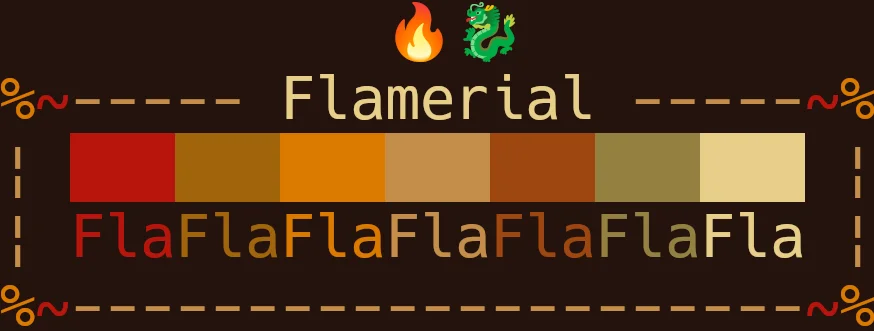
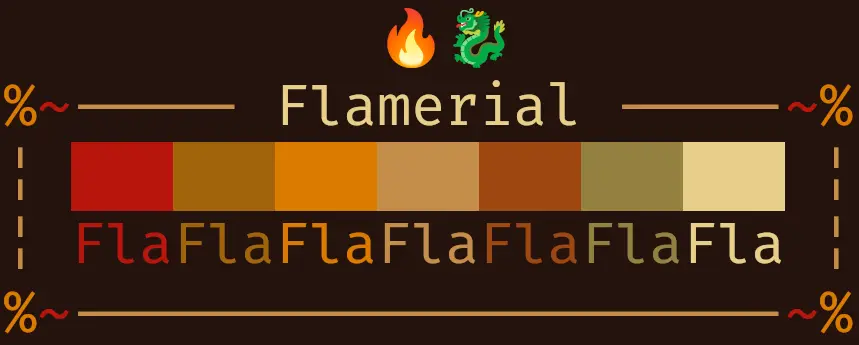
update formatting

diff --git a/tools/preview.js b/tools/preview.js
@@ -1,0 +1,9 @@
+console.log('           🔥🐉');
+console.log('\x1b[33m%\x1b[31m~\x1b[34m----- \x1b[0mFlamerial \x1b[34m-----' +
+            '\x1b[31m~\x1b[33m%');
+console.log('\x1b[34m¦ \x1b[41m   \x1b[42m   \x1b[43m   \x1b[44m   ' +
+            '\x1b[45m   \x1b[46m   \x1b[47m   \x1b[49m ¦');
+console.log('¦ \x1b[31mFla\x1b[32mFla\x1b[33mFla\x1b[34mFla\x1b[35mFla' +
+            '\x1b[36mFla\x1b[37mFla\x1b[34m ¦');
+console.log('\x1b[33m%\x1b[31m~\x1b[34m---------------------\x1b[31m~' +
+            '\x1b[33m%\x1b[0m');

diff --git a/README.md b/README.md
@@ -1,24 +1,24 @@
 <p align="center">
-    <img alt="" src="assets/ornament.webp" />
+  <img alt="" src="assets/ornament.webp" />
 </p>
 <h1 align="center">≥v≥v&ensp;flamerial&ensp;≥v≥v</h1>
 <p align="center">
-    <img alt="" src="https://img.shields.io/github/license/skippyr/flamerial?style=plastic&label=%E2%89%A5%20license&labelColor=%2324130e&color=%23b8150d" />
-    &nbsp;
-    <img alt="" src="https://img.shields.io/github/v/tag/skippyr/flamerial?style=plastic&label=%E2%89%A5%20tag&labelColor=%2324130e&color=%23b8150d" />
-    &nbsp;
-    <img alt="" src="https://img.shields.io/github/commit-activity/t/skippyr/flamerial?style=plastic&label=%E2%89%A5%20commits&labelColor=%2324130e&color=%23b8150d" />
-    &nbsp;
-    <img alt="" src="https://img.shields.io/github/stars/skippyr/flamerial?style=plastic&label=%E2%89%A5%20stars&labelColor=%2324130e&color=%23b8150d" />
+  <img alt="" src="https://img.shields.io/github/license/skippyr/flamerial?style=plastic&label=%E2%89%A5%20license&labelColor=%2324130e&color=%23b8150d" />
+  &nbsp;
+  <img alt="" src="https://img.shields.io/github/v/tag/skippyr/flamerial?style=plastic&label=%E2%89%A5%20tag&labelColor=%2324130e&color=%23b8150d" />
+  &nbsp;
+  <img alt="" src="https://img.shields.io/github/commit-activity/t/skippyr/flamerial?style=plastic&label=%E2%89%A5%20commits&labelColor=%2324130e&color=%23b8150d" />
+  &nbsp;
+  <img alt="" src="https://img.shields.io/github/stars/skippyr/flamerial?style=plastic&label=%E2%89%A5%20stars&labelColor=%2324130e&color=%23b8150d" />
 </p>
 
 ## ❡ About
 
-A 3-bits fiery dark theme for the old-school programmers.
+A 3-bits fiery and dark theme.
 
 <p align="center">
-    <img alt="" src="assets/preview.webp" width="700" />
-    <p align="center"><sup><strong>Caption:</strong> a preview showing Flamerial applied on a terminal. The font used is <a href="https://github.com/source-foundry/Hack">Hack</a>.</sup></p>
+  <img alt="" src="assets/preview.webp" width="700" />
+  <p align="center"><sup><strong>Caption:</strong> a preview showing Flamerial applied on a terminal. The font used is <a href="https://fonts.google.com/specimen/Fira+Code">Fira Code</a>.</sup></p>
 </p>
 
 ## ❡ Install
@@ -32,55 +32,55 @@ The remaining ports require exclusive repositories for their contents and instru
 ## ❡ Pallete
 
 <table align="center">
-    <thead>
-        <tr>
-            <th>ANSI</th>
-            <th>Name</th>
-            <th>HEX</th>
-        </tr>
-    </thead>
-    <tbody>
-        <tr>
-            <td>0</td>
-            <td>Black</td>
-            <td><code>#24130e</code></td>
-        </tr>
-        <tr>
-            <td>1</td>
-            <td>Red</td>
-            <td><code>#b8150d</code></td>
-        </tr>
-        <tr>
-            <td>2</td>
-            <td>Green</td>
-            <td><code>#a1650b</code></td>
-        </tr>
-        <tr>
-            <td>3</td>
-            <td>Yellow</td>
-            <td><code>#db7a00</code></td>
-        </tr>
-        <tr>
-            <td>4</td>
-            <td>Blue</td>
-            <td><code>#c48d49</code></td>
-        </tr>
-        <tr>
-            <td>5</td>
-            <td>Magenta</td>
-            <td><code>#9e4711</code></td>
-        </tr>
-        <tr>
-            <td>6</td>
-            <td>Cyan</td>
-            <td><code>#948141</code></td>
-        </tr>
-        <tr>
-            <td>7</td>
-            <td>White</td>
-            <td><code>#e8cf89</code></td>
-        </tr>
-    </tbody>
+  <thead>
+    <tr>
+      <th>ANSI</th>
+      <th>Name</th>
+      <th>HEX</th>
+    </tr>
+  </thead>
+  <tbody>
+    <tr>
+      <td>0</td>
+      <td>Black</td>
+      <td><code>#24130e</code></td>
+    </tr>
+    <tr>
+      <td>1</td>
+      <td>Red</td>
+      <td><code>#b8150d</code></td>
+    </tr>
+    <tr>
+      <td>2</td>
+      <td>Green</td>
+      <td><code>#a1650b</code></td>
+    </tr>
+    <tr>
+      <td>3</td>
+      <td>Yellow</td>
+      <td><code>#db7a00</code></td>
+    </tr>
+    <tr>
+      <td>4</td>
+      <td>Blue</td>
+      <td><code>#c48d49</code></td>
+    </tr>
+    <tr>
+      <td>5</td>
+      <td>Magenta</td>
+      <td><code>#9e4711</code></td>
+    </tr>
+    <tr>
+      <td>6</td>
+      <td>Cyan</td>
+      <td><code>#948141</code></td>
+    </tr>
+    <tr>
+      <td>7</td>
+      <td>White</td>
+      <td><code>#e8cf89</code></td>
+    </tr>
+  </tbody>
 </table>
 <p align="center"><strong>Caption:</strong> the colors used in the flamerial color scheme with their respective ANSI values.</p>
 

diff --git a/ports/windows-terminal/README.md b/ports/windows-terminal/README.md
@@ -1,5 +1,5 @@
 <p align="center">
-    <img alt="" src="../../assets/ornament.webp" />
+  <img alt="" src="../../assets/ornament.webp" />
 </p>
 <h1 align="center">≥v≥v&ensp;flamerial&ensp;≥v≥v</h1>
 <p align="center">windows-terminal</p>

diff --git a/ports/gnome-terminal/README.md b/ports/gnome-terminal/README.md
@@ -1,5 +1,5 @@
 <p align="center">
-    <img alt="" src="../../assets/ornament.webp" />
+  <img alt="" src="../../assets/ornament.webp" />
 </p>
 <h1 align="center">≥v≥v&ensp;flamerial&ensp;≥v≥v</h1>
 <p align="center">gnome-terminal</p>

diff --git a/ports/xfce4-terminal/README.md b/ports/xfce4-terminal/README.md
@@ -1,5 +1,5 @@
 <p align="center">
-    <img alt="" src="../../assets/ornament.webp" />
+  <img alt="" src="../../assets/ornament.webp" />
 </p>
 <h1 align="center">≥v≥v&ensp;flamerial&ensp;≥v≥v</h1>
 <p align="center">xfce4-terminal</p>

diff --git a/ports/lxterminal/README.md b/ports/lxterminal/README.md
@@ -1,5 +1,5 @@
 <p align="center">
-    <img alt="" src="../../assets/ornament.webp" />
+  <img alt="" src="../../assets/ornament.webp" />
 </p>
 <h1 align="center">≥v≥v&ensp;flamerial&ensp;≥v≥v</h1>
 <p align="center">lxterminal</p>

diff --git a/ports/terminator/README.md b/ports/terminator/README.md
@@ -1,5 +1,5 @@
 <p align="center">
-    <img alt="" src="../../assets/ornament.webp" />
+  <img alt="" src="../../assets/ornament.webp" />
 </p>
 <h1 align="center">≥v≥v&ensp;flamerial&ensp;≥v≥v</h1>
 <p align="center">terminator</p>

diff --git a/ports/xresources/README.md b/ports/xresources/README.md
@@ -1,5 +1,5 @@
 <p align="center">
-    <img alt="" src="../../assets/ornament.webp" />
+  <img alt="" src="../../assets/ornament.webp" />
 </p>
 <h1 align="center">≥v≥v&ensp;flamerial&ensp;≥v≥v</h1>
 <p align="center">xresources</p>

diff --git a/ports/alacritty/README.md b/ports/alacritty/README.md
@@ -1,5 +1,5 @@
 <p align="center">
-    <img alt="" src="../../assets/ornament.webp" />
+  <img alt="" src="../../assets/ornament.webp" />
 </p>
 <h1 align="center">≥v≥v&ensp;flamerial&ensp;≥v≥v</h1>
 <p align="center">alacritty</p>

diff --git a/ports/konsole/README.md b/ports/konsole/README.md
@@ -1,5 +1,5 @@
 <p align="center">
-    <img alt="" src="../../assets/ornament.webp" />
+  <img alt="" src="../../assets/ornament.webp" />
 </p>
 <h1 align="center">≥v≥v&ensp;flamerial&ensp;≥v≥v</h1>
 <p align="center">konsole</p>

diff --git a/ports/wezterm/README.md b/ports/wezterm/README.md
@@ -1,5 +1,5 @@
 <p align="center">
-    <img alt="" src="../../assets/ornament.webp" />
+  <img alt="" src="../../assets/ornament.webp" />
 </p>
 <h1 align="center">≥v≥v&ensp;flamerial&ensp;≥v≥v</h1>
 <p align="center">wezterm</p>

diff --git a/ports/bspwm/README.md b/ports/bspwm/README.md
@@ -1,5 +1,5 @@
 <p align="center">
-    <img alt="" src="../../assets/ornament.webp" />
+  <img alt="" src="../../assets/ornament.webp" />
 </p>
 <h1 align="center">≥v≥v&ensp;flamerial&ensp;≥v≥v</h1>
 <p align="center">bspwm</p>
